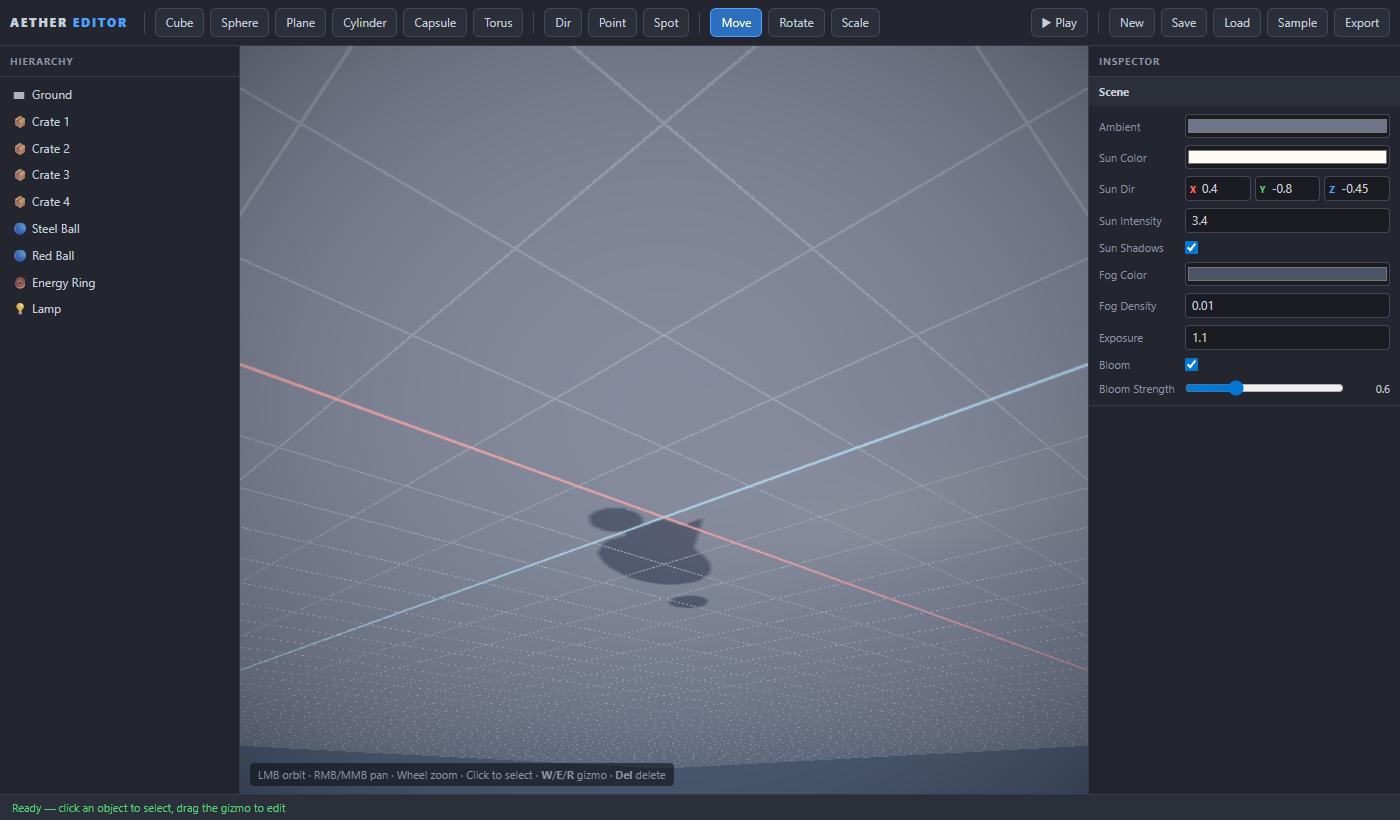
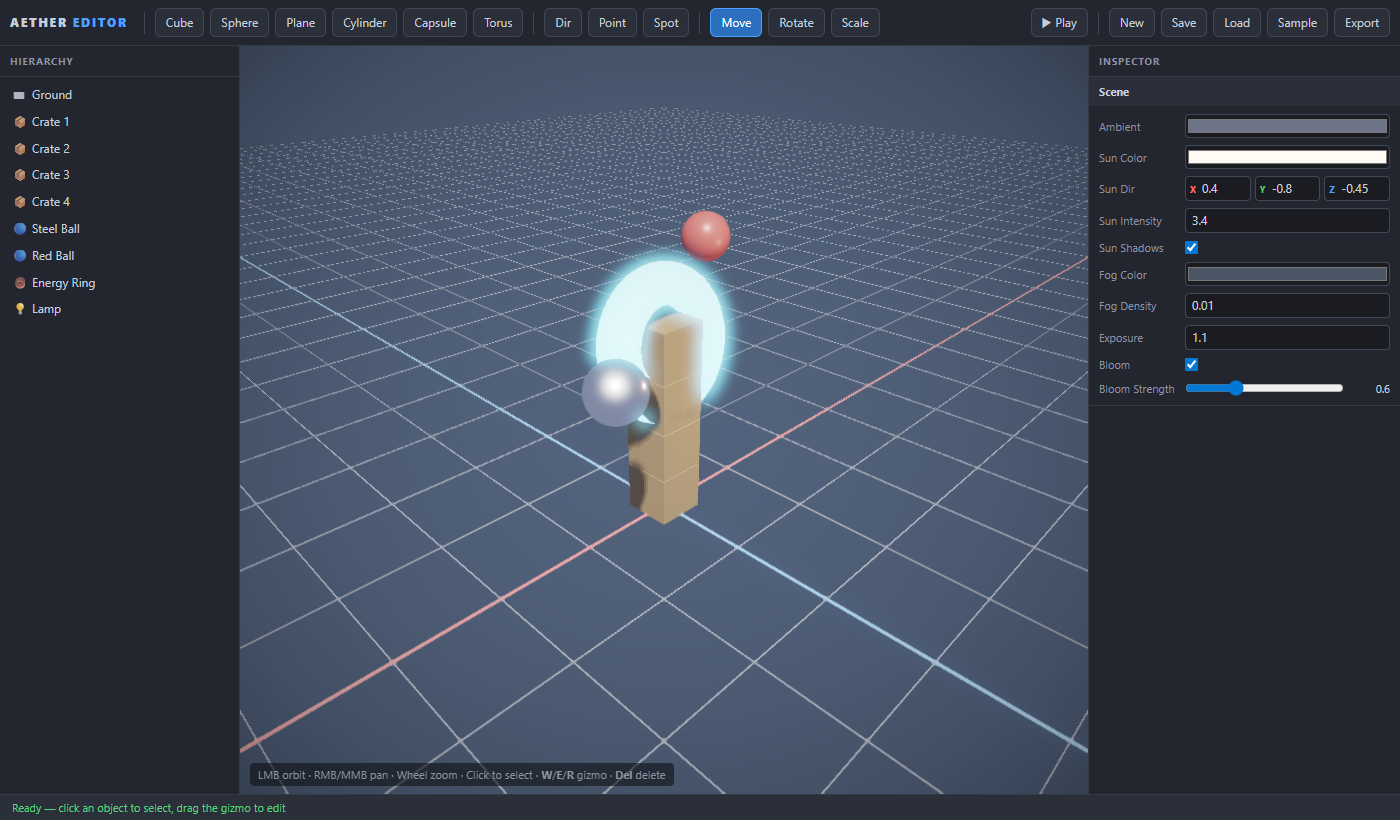
fix(editor): orbit camera started below ground (scene appeared upside-down)
Default pitch was +0.5 which, with the `pivot - dir*distance` convention,
placed the camera at y=-4.7 (below the ground plane) looking up at the
undersides. Default pitch is now -0.5 (camera above, looking down, y=8.7) and
the vertical orbit direction is flipped to match. Refreshed the README hero
shot with the corrected view.

diff --git a/editor/viewport/Viewport.ts b/editor/viewport/Viewport.ts
@@ -40,7 +40,9 @@ export class Viewport {
   private readonly pivot = new Vec3(0, 2, 0);
   private distance = 14;
   private yaw = -Math.PI * 0.25;
-  private pitch = 0.5;
+  // Negative pitch puts the camera ABOVE the pivot looking down (with the
+  // `pivot - dir*distance` convention below, sin(pitch) drives camera height).
+  private pitch = -0.5;
 
   // ---- Pointer/drag bookkeeping ----
   private activeButton = -1; // 0=LMB,1=MMB,2=RMB while a drag is live
@@ -96,7 +98,10 @@ export class Viewport {
   /** LMB drag: orbit yaw/pitch (pitch clamped to avoid gimbal flip at the poles). */
   private orbit(dx: number, dy: number): void {
     this.yaw -= dx * ORBIT_SPEED;
-    this.pitch -= dy * ORBIT_SPEED;
+    // Drag down → camera lowers toward the horizon (pitch toward 0/positive);
+    // drag up → camera rises overhead (pitch more negative). Feels natural with
+    // the above-looking-down default.
+    this.pitch += dy * ORBIT_SPEED;
     this.pitch = clamp(this.pitch, -HALF_PI_CLAMP, HALF_PI_CLAMP);
     this.updateCamera();
   }